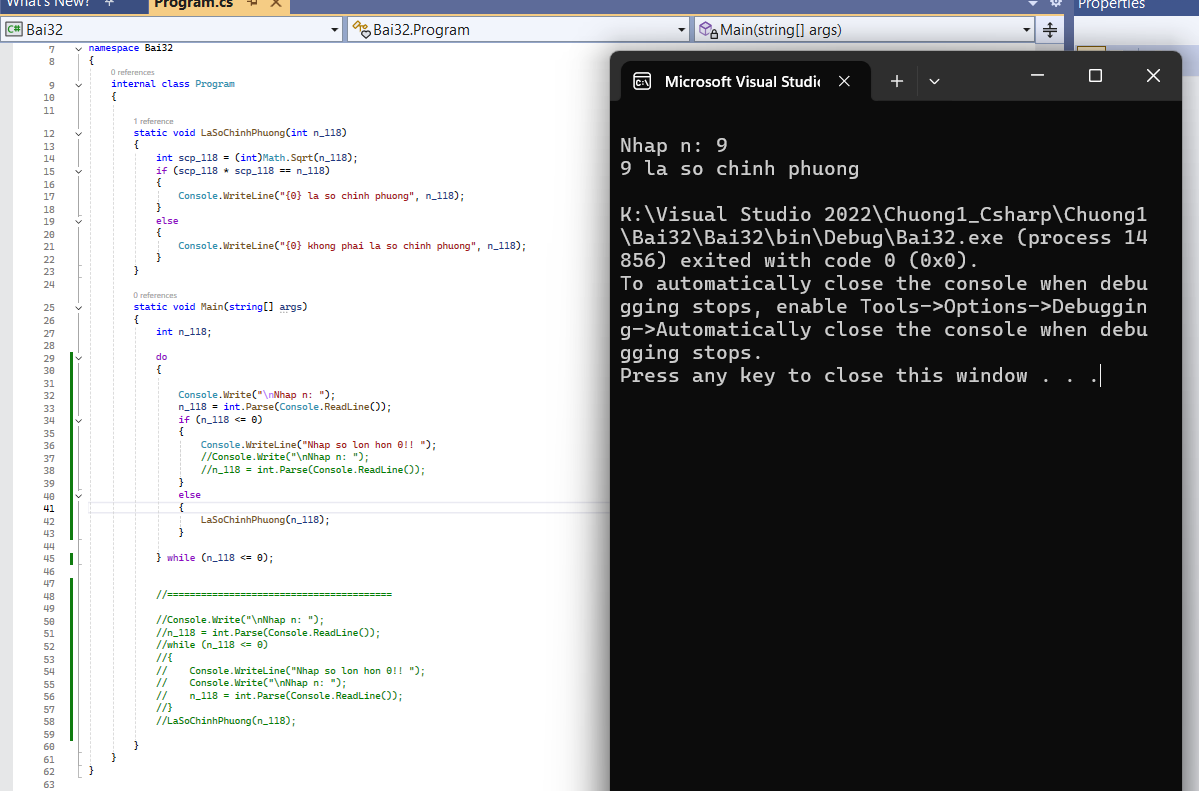
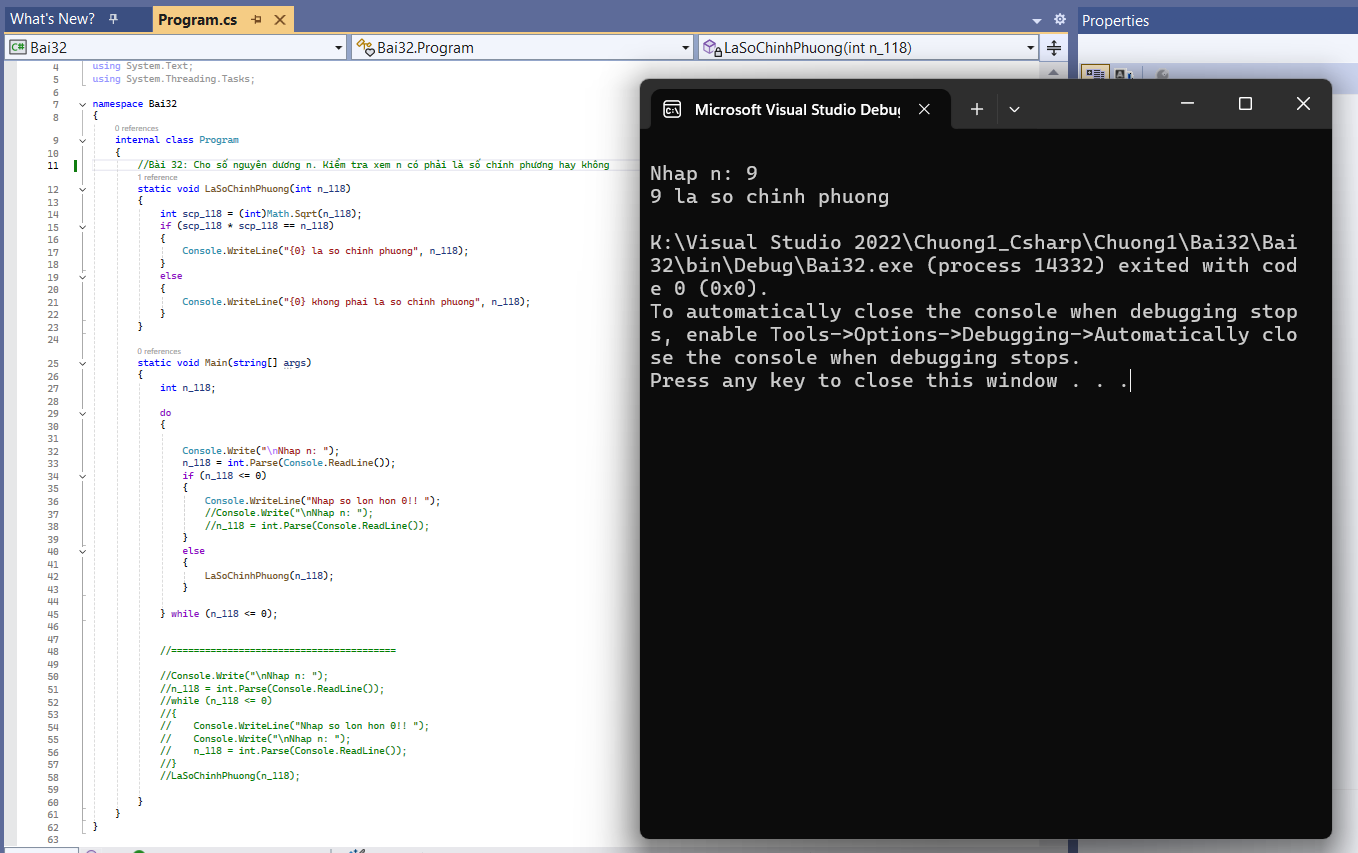
them de bai va sua anh chup code voi console

diff --git a/Bai32/Bai32/Program.cs b/Bai32/Bai32/Program.cs
@@ -8,7 +8,7 @@ namespace Bai32
 {
     internal class Program
     {
-
+        //Bài 32: Cho số nguyên dương n. Kiểm tra xem n có phải là số chính phương hay không
         static void LaSoChinhPhuong(int n_118)
         {
             int scp_118 = (int)Math.Sqrt(n_118);
